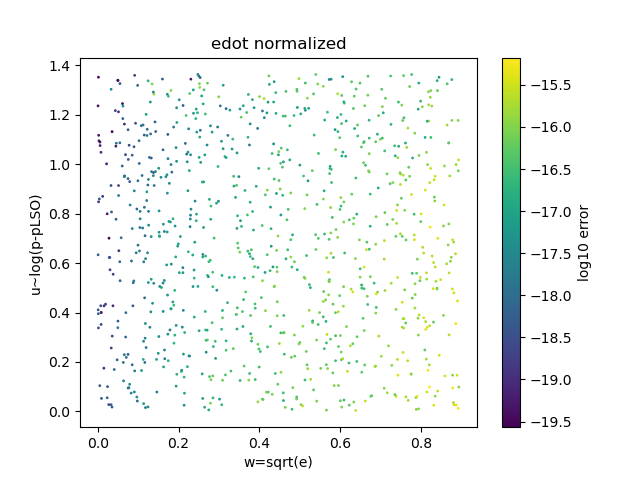
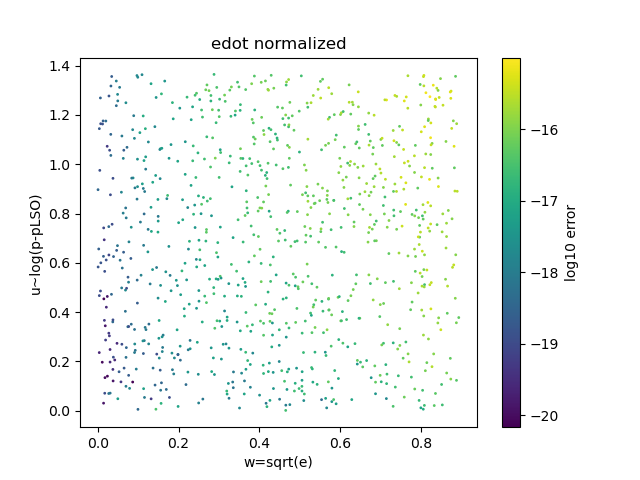
speed up in the ODE due to tricubic splines

diff --git a/KerrEquatorialCodes/InterpolationComparison/tricubic_grid.py b/KerrEquatorialCodes/InterpolationComparison/tricubic_grid.py
@@ -130,44 +130,53 @@ X = [x1, x2, x3]
 
 for flux, lab in zip([pdot, edot, Edot, Ldot], ['pdot', 'edot','Endot', 'Ldot']):
     reshapedF = np.asarray(flux).reshape(flat_u.shape)
-    # reshapedF = np.flip(reshapedF, axis=2)  # u must be increasing
-    bc = "E(3)"#"natural","not-a-knot","clamped", "E(3)", "natural-alt"
-    interpTR = TricubicSpline(x1, x2, x3, reshapedF, bc=bc)
-    interpTP = TPI.TP_Interpolant_ND(X, F=reshapedF)
-    
-    # test the interpolation against each other
-    # Ntest = 100
-    # x1_test = np.linspace(avals.min(), avals.max(), Ntest)
-    # x2_test = np.linspace(flat_w.min(), flat_w.max(), Ntest)
-    # x3_test = np.linspace(flat_u.min(), flat_u.max(), Ntest)
-    Ntest=1000
-    x1_test = np.random.uniform(avals.min(), avals.max(), Ntest)
-    x2_test = np.random.uniform(flat_w.min(), flat_w.max(), Ntest)
-    x3_test = np.random.uniform(flat_u.min(), flat_u.max(), Ntest)
-    X_test = [x1_test, x2_test, x3_test]
-    # basic check for the interpolation
-    # for ii in range(10):
-    #     print(interpTP((x1[ii], x2[ii], x3[ii]))-reshapedF[ii,ii,ii] , interpTR(x1[ii], x2[ii], x3[ii])-reshapedF[ii,ii,ii])
-    eval_TP = np.array([interpTP((x1_test[ii], x2_test[ii], x3_test[ii])) for ii in range(Ntest)])
-    eval_TR = np.array([interpTR(x1_test[ii], x2_test[ii], x3_test[ii]) for ii in range(Ntest)])
-    difference_interpolants = eval_TR - eval_TP
+    reshapedF = np.flip(reshapedF, axis=2)  # u must be increasing
+    save_txt(reshapedF.flatten(), f'../../few/files/TricubicData_' + lab +'.dat')
 
-    # make a surface plot along x2,x3 axis of the error
-    plt.figure()
-    plt.scatter(x2_test, x3_test, c=np.log10(np.abs(difference_interpolants)), s=1)
-    plt.colorbar(label='log10 error')
-    plt.title(f"{lab} normalized")
-    plt.xlabel('w=sqrt(e)')
-    plt.ylabel('u~log(p-pLSO)')
-    plt.savefig(f"./{lab}_TPvsTR"+bc+"_error.png")
-    
-    # plot the two evaluations against each other
-    # plt.figure()
-    # plt.semilogy(x2_test, np.abs(eval_TP), '.', label='TP',alpha=0.3)
-    # plt.semilogy(x2_test, np.abs(eval_TR), 'x', label='TR',alpha=0.3)
-    # plt.legend()
-    # plt.title(f"{lab} normalized")
-    # plt.xlabel('w=sqrt(e)')
-    # plt.ylabel('interpolated value')
-    # plt.savefig(f"InterpolationComparison/{lab}_eval.png")
-    
+for i,el in enumerate(X):
+    save_txt(el, f'../../few/files/TricubicData_x{i}.dat')
+
+for flux, lab in zip([pdot, edot, Edot, Ldot], ['pdot', 'edot','Endot', 'Ldot']):
+    reshapedF = np.asarray(flux).reshape(flat_u.shape)
+    reshapedF = np.flip(reshapedF, axis=2)  # u must be increasing
+
+    for bc in ["E(3)","not-a-knot"]: #"natural","not-a-knot","clamped", "E(3)", "natural-alt"
+        interpTR = TricubicSpline(x1, x2, x3, reshapedF, bc=bc)
+        interpTP = TPI.TP_Interpolant_ND(X, F=reshapedF)
+        
+        # test the interpolation against each other
+        # Ntest = 100
+        # x1_test = np.linspace(avals.min(), avals.max(), Ntest)
+        # x2_test = np.linspace(flat_w.min(), flat_w.max(), Ntest)
+        # x3_test = np.linspace(flat_u.min(), flat_u.max(), Ntest)
+        Ntest=1000
+        x1_test = np.random.uniform(avals.min(), avals.max(), Ntest)
+        x2_test = np.random.uniform(flat_w.min(), flat_w.max(), Ntest)
+        x3_test = np.random.uniform(flat_u.min(), flat_u.max(), Ntest)
+        X_test = [x1_test, x2_test, x3_test]
+        # basic check for the interpolation
+        # for ii in range(10):
+        #     print(interpTP((x1[ii], x2[ii], x3[ii]))-reshapedF[ii,ii,ii] , interpTR(x1[ii], x2[ii], x3[ii])-reshapedF[ii,ii,ii])
+        eval_TP = np.array([interpTP((x1_test[ii], x2_test[ii], x3_test[ii])) for ii in range(Ntest)])
+        eval_TR = np.array([interpTR(x1_test[ii], x2_test[ii], x3_test[ii]) for ii in range(Ntest)])
+        difference_interpolants = eval_TR - eval_TP
+
+        # make a surface plot along x2,x3 axis of the error
+        plt.figure()
+        plt.scatter(x2_test, x3_test, c=np.log10(np.abs(difference_interpolants)), s=1)
+        plt.colorbar(label='log10 error')
+        plt.title(f"{lab} normalized")
+        plt.xlabel('w=sqrt(e)')
+        plt.ylabel('u~log(p-pLSO)')
+        plt.savefig(f"./{lab}_TPvsTR"+bc+"_error.png")
+        
+        # plot the two evaluations against each other
+        # plt.figure()
+        # plt.semilogy(x2_test, np.abs(eval_TP), '.', label='TP',alpha=0.3)
+        # plt.semilogy(x2_test, np.abs(eval_TR), 'x', label='TR',alpha=0.3)
+        # plt.legend()
+        # plt.title(f"{lab} normalized")
+        # plt.xlabel('w=sqrt(e)')
+        # plt.ylabel('interpolated value')
+        # plt.savefig(f"InterpolationComparison/{lab}_eval.png")
+        

diff --git a/src/ode_base_example.cc b/src/ode_base_example.cc
@@ -12,6 +12,7 @@
 #include <cmath>
 
 #include "Interpolant.h"
+#include "spline.hpp"
 #include "global.h"
 #include "Utility.hh"
 
@@ -390,7 +391,23 @@ KerrEccentricEquatorial::KerrEccentricEquatorial(std::string few_dir)
     Edot_interp = new TensorInterpolant(x1, x2, x3, coeffEn);
     Ldot_interp = new TensorInterpolant(x1, x2, x3, coeffL);
 
-    // cout << "pdot=" << pdot_interp<< pdot_interp->eval(2.000000000000000111e-01, 1.260000000000000009e+00, 4.599900000000000100e-01) << '\n'<< endl;
+    //
+    fp = few_dir + "few/files/TricubicData_x0.dat";
+    Vector tri_x1 = fill_vector(fp);
+    fp = few_dir + "few/files/TricubicData_x1.dat";
+    Vector tri_x2 = fill_vector(fp);
+    fp = few_dir + "few/files/TricubicData_x2.dat";
+    Vector tri_x3 = fill_vector(fp);
+
+    fp = few_dir + "few/files/TricubicData_pdot.dat";
+    Vector tri_pdot = fill_vector(fp);
+    fp = few_dir + "few/files/TricubicData_edot.dat";
+    Vector tri_edot = fill_vector(fp);
+
+    tric_p_interp = new TricubicSpline(tri_x1, tri_x2, tri_x3, tri_pdot, 3);
+    tric_e_interp = new TricubicSpline(tri_x1, tri_x2, tri_x3, tri_edot, 3);
+    cout << "pdot_TP=" << pdot_interp->eval(0.9, 0.4088810015999615, 0.7700000000000000) << '\n'<< endl;
+    cout << "pdot_TR=" << tric_p_interp->evaluate(0.9, 0.4088810015999615, 0.7700000000000000) << '\n'<< endl;
     // cout << "edot=" << edot_interp<< edot_interp->eval(2.000000000000000111e-01, 1.260000000000000009e+00, 4.599900000000000100e-01) << '\n'<< endl;
 }
 
@@ -461,9 +478,12 @@ __deriv__ void KerrEccentricEquatorial::deriv_func(double ydot[], const double y
     // p, e
 
     double signed_a = a*x; // signed a for interpolant
-
-    pdot_out = pdot_interp->eval(signed_a, w, u) * ((8. * pow(1. - pow(e, 2), 1.5) * (8. + 7. * pow(e, 2))) / (5. * p * (pow(p - risco, 2) - pow(-risco + p_sep, 2))));
-    edot_out = edot_interp->eval(signed_a, w, u) * ((pow(1. - pow(e, 2), 1.5) * (304. + 121. * pow(e, 2))) / (15. * pow(p, 2) * (pow(p - risco, 2) - pow(-risco + p_sep, 2))));
+    
+    
+    // pdot_out = pdot_interp->eval(signed_a, w, u) * ((8. * pow(1. - pow(e, 2), 1.5) * (8. + 7. * pow(e, 2))) / (5. * p * (pow(p - risco, 2) - pow(-risco + p_sep, 2))));
+    pdot_out = tric_p_interp->evaluate(signed_a, w, u) * ((8. * pow(1. - pow(e, 2), 1.5) * (8. + 7. * pow(e, 2))) / (5. * p * (pow(p - risco, 2) - pow(-risco + p_sep, 2))));
+    // edot_out = edot_interp->eval(signed_a, w, u) * ((pow(1. - pow(e, 2), 1.5) * (304. + 121. * pow(e, 2))) / (15. * pow(p, 2) * (pow(p - risco, 2) - pow(-risco + p_sep, 2))));
+    edot_out = tric_e_interp->evaluate(signed_a, w, u) * ((pow(1. - pow(e, 2), 1.5) * (304. + 121. * pow(e, 2))) / (15. * pow(p, 2) * (pow(p - risco, 2) - pow(-risco + p_sep, 2))));
     // E, L
     // Edot = Edot_interp->eval(a,u,w) * (32./5. * pow(p,-5) * pow(1-e*e,1.5) * (1. + 73./24.* e*e + 37./96. * e*e*e*e));
     // Ldot = Ldot_interp->eval(a,u,w) * (32./5. * pow(p,-7/2) * pow(1-e*e,1.5) * (1. + 7./8. * e*e) );
